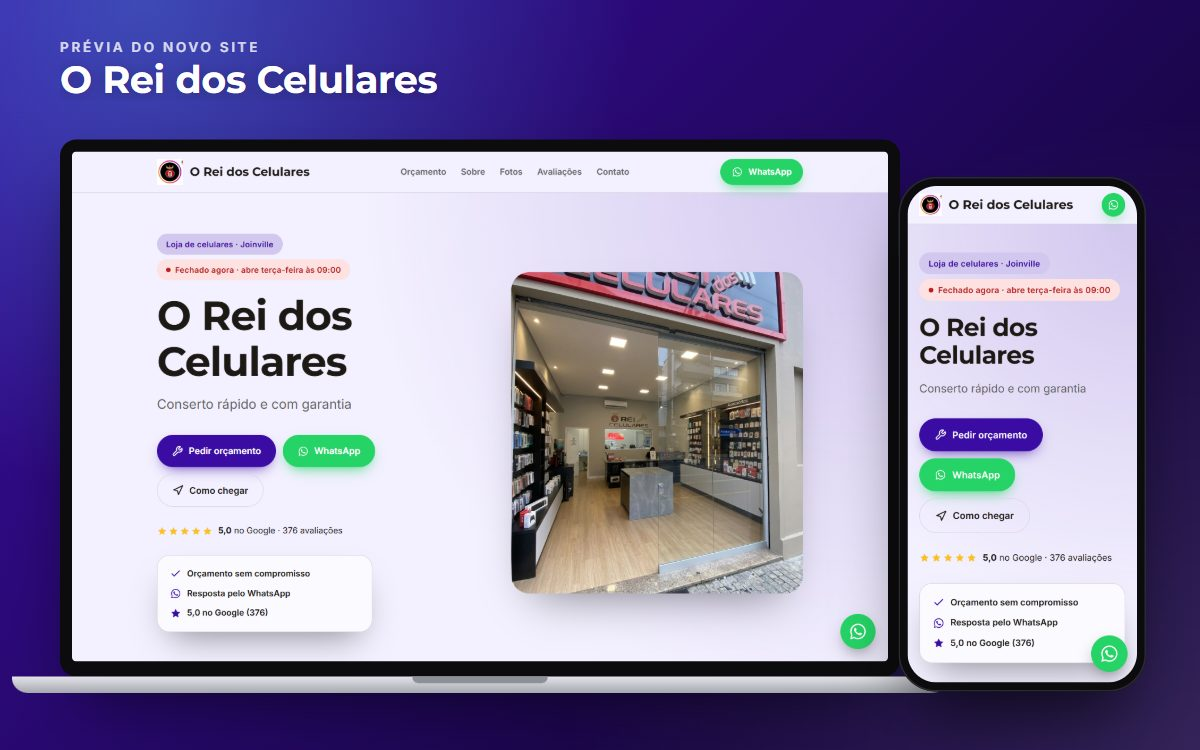
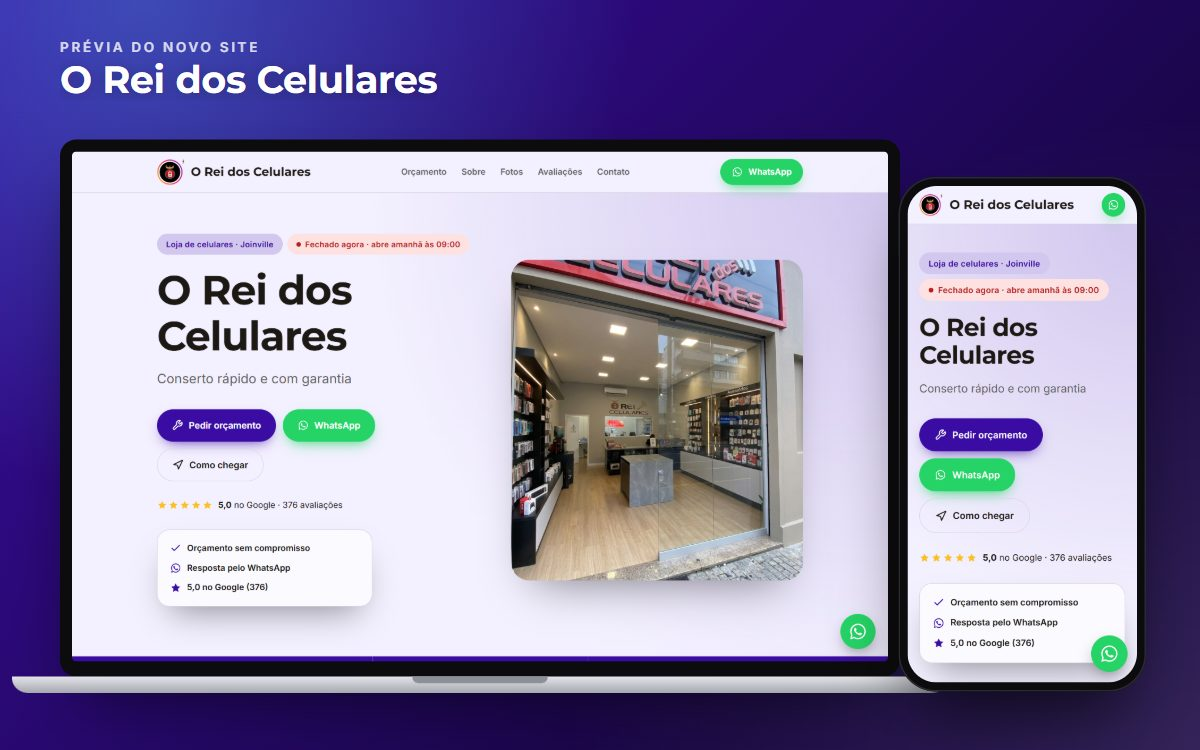
Prévia: O Rei dos Celulares

diff --git a/o-rei-dos-celulares-joinville/index.html b/o-rei-dos-celulares-joinville/index.html
@@ -7,7 +7,7 @@
 <meta name="description" content="Conserto rápido e com garantia">
 <meta name="robots" content="noindex, nofollow">
 <meta name="theme-color" content="#3a0ca3">
-<meta name="versao" content="20261011125059">
+<meta name="versao" content="20261012013206">
 <link rel="icon" href="logo.png">
 <meta property="og:type" content="website">
 <meta property="og:title" content="O Rei dos Celulares: prévia do novo site">
@@ -118,6 +118,16 @@
     display: grid; place-items: center; padding: 36px; box-shadow: 0 40px 80px -30px rgba(0,0,0,.5); z-index: 2; }
   .hero-logo img { max-height: 100%; object-fit: contain; }
   .hero.cheio .conteudo { position: relative; z-index: 3; max-width: 700px; padding: 96px 0; }
+  /* capa em pé ou pequena (as do Instagram e do Facebook): no computador, o fundo vira a própria foto desfocada
+     e a foto aparece inteira e nítida numa moldura ao lado do texto, em vez de esticada e cortada */
+  .hero-quadro { display: none; }
+  @media (min-width: 861px) {
+    .hero.estreita .hero-foto { filter: blur(28px) saturate(1.15); transform: scale(1.15); }
+    .hero.estreita .container { display: flex; align-items: center; justify-content: space-between; gap: 48px; }
+    .hero.estreita .hero-quadro { display: block; position: relative; z-index: 3; flex: 0 0 auto; height: min(500px, 72vh); border-radius: 28px;
+      overflow: hidden; border: 6px solid rgba(255,255,255,.16); box-shadow: 0 40px 90px -30px rgba(0,0,0,.75); }
+    .hero.estreita .hero-quadro img { display: block; height: 100%; width: auto; max-width: 520px; object-fit: cover; cursor: zoom-in; }
+  }
 
   .hero.dividido { padding: 72px 0 88px; background: radial-gradient(circle at 100% 0%, #d2c7ee 0%, transparent 55%), var(--fundo); }
   .hero.dividido .container { display: grid; grid-template-columns: 1.05fr .95fr; gap: 56px; align-items: center; }
@@ -460,7 +470,7 @@
     </div></div>
     <div class="item"><svg class="" viewBox="0 0 24 24" fill="none" stroke="currentColor" stroke-width="2" stroke-linecap="round" stroke-linejoin="round" aria-hidden="true"><circle cx="12" cy="12" r="10"/><path d="M12 6v6l4 2"/></svg><div>
       <small>Horário</small>
-      <strong>Dom a Seg: Fechado</strong>
+      <strong>Ter a Sex: 09:00 às 18:00</strong>
       
     </div></div>
     <div class="item"><svg class="" viewBox="0 0 24 24" fill="none" stroke="currentColor" stroke-width="2" stroke-linecap="round" stroke-linejoin="round" aria-hidden="true"><path d="M21 10c0 7-9 13-9 13s-9-6-9-13a9 9 0 0 1 18 0z"/><circle cx="12" cy="10" r="3"/></svg><div>
@@ -569,7 +579,7 @@ Com toda certeza indico de olhos fechados, sem falar na loja que é  super linda
   <div class="container">
     <div class="cabeca revelar"><div class="olho">Dúvidas</div><h2>Perguntas frequentes</h2></div>
     <div class="faq-lista">
-      <details open><summary>Como peço um orçamento?</summary><p>Preencha o formulário com o que você precisa e envie pelo WhatsApp. A gente responde por lá.</p></details><details><summary>Quais formas de pagamento vocês aceitam?</summary><p>Aceitamos cartão de crédito, cartão de débito e pagamento por aproximação.</p></details><details><summary>Qual o horário de funcionamento?</summary><p>Dom a Seg: Fechado; Ter a Sex: 09:00 às 18:00; Sáb: 09:00 às 13:00.</p></details><details><summary>Tem estacionamento?</summary><p>Sim, há opção de estacionamento.</p></details><details><summary>Onde vocês ficam?</summary><p>R. Dr. João Colin, 507 - Centro, Joinville - SC, 89201-299, Brasil</p></details>
+      <details open><summary>Como peço um orçamento?</summary><p>Preencha o formulário com o que você precisa e envie pelo WhatsApp. A gente responde por lá.</p></details><details><summary>Quais formas de pagamento vocês aceitam?</summary><p>Aceitamos cartão de crédito, cartão de débito e pagamento por aproximação.</p></details><details><summary>Qual o horário de funcionamento?</summary><p>Seg: Fechado; Ter a Sex: 09:00 às 18:00; Sáb: 09:00 às 13:00; Dom: Fechado.</p></details><details><summary>Tem estacionamento?</summary><p>Sim, há opção de estacionamento.</p></details><details><summary>Onde vocês ficam?</summary><p>R. Dr. João Colin, 507 - Centro, Joinville - SC, 89201-299, Brasil</p></details>
     </div>
   </div>
 </section>
@@ -616,7 +626,7 @@ Com toda certeza indico de olhos fechados, sem falar na loja que é  super linda
       <li>R. Dr. João Colin, 507 - Centro, Joinville - SC, 89201-299, Brasil</li>
     </ul></div>
     <div><h4>Horário</h4><ul>
-      <li>Dom a Seg: Fechado</li><li>Ter a Sex: 09:00 às 18:00</li><li>Sáb: 09:00 às 13:00</li>
+      <li>Seg: Fechado</li><li>Ter a Sex: 09:00 às 18:00</li><li>Sáb: 09:00 às 13:00</li><li>Dom: Fechado</li>
     </ul></div>
     <div class="creditos">© 2026 O Rei dos Celulares. Todos os direitos reservados.</div>
   </div>
@@ -922,7 +932,8 @@ Com toda certeza indico de olhos fechados, sem falar na loja que é  super linda
     var alvo = e.target.closest('img[data-ampliar]');
     if (!alvo) return;
     e.preventDefault();
-    lista = Array.prototype.slice.call(document.querySelectorAll('img[data-ampliar]'));
+    // só as fotos visíveis (a moldura da capa fica escondida quando a capa já é larga)
+    lista = Array.prototype.slice.call(document.querySelectorAll('img[data-ampliar]')).filter(function (i) { return i.offsetParent !== null; });
     mostrar(lista.indexOf(alvo));
     caixa.hidden = false;
     document.body.classList.add('travado');
